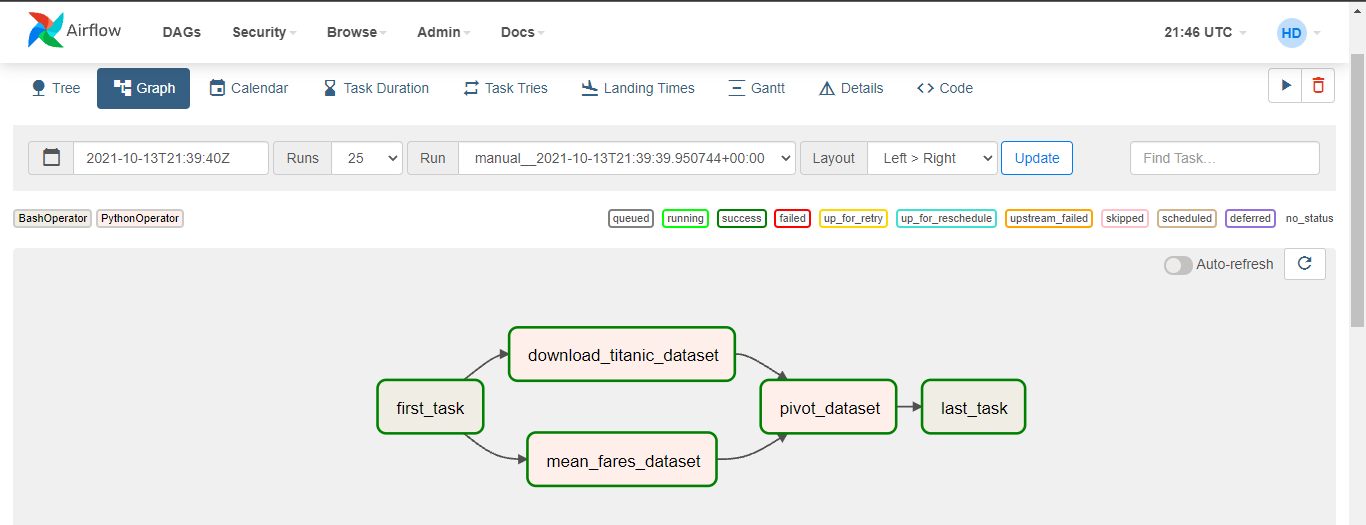
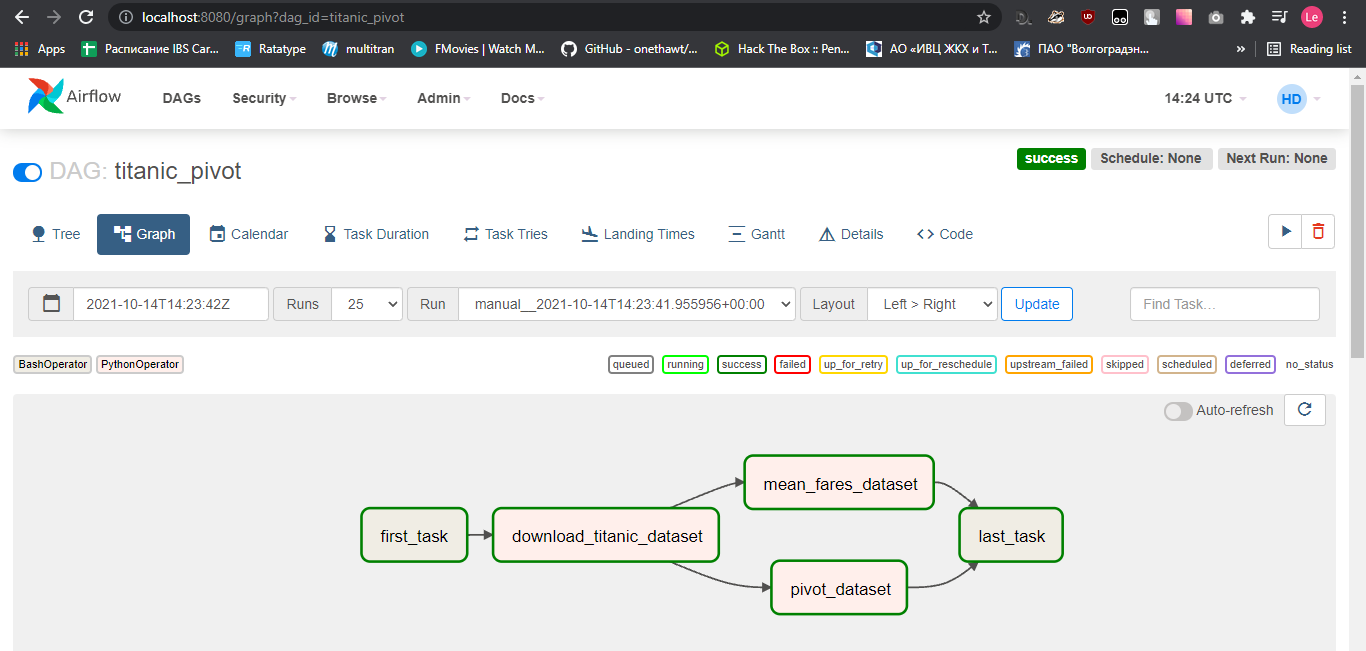
fix: change pipeline

diff --git a/airflow/dags/dag_1.py b/airflow/dags/dag_1.py
@@ -31,7 +31,8 @@ def pivot_dataset():
     df = titanic_df.pivot_table(index=['Sex'],
                                 columns=['Pclass'],
                                 values='Name',
-                                aggfunc='count').reset_index()
+                                aggfunc='count') \
+                    .reset_index()
     df.to_csv(get_path('titanic_pivot.csv'))
 
     
@@ -77,8 +78,8 @@ with DAG(
     
     last_task = BashOperator(
         task_id='last_task',
-        bash_command='echo "Pipeline finished! Execution date is {{ execution_date | ds }}"',
+        bash_command='echo "Pipeline finished! Execution date is {{ ds }}"',
         dag=dag,
     )
     
-    first_task >> [create_titanic_dataset, mean_fares_titanic_dataset] >> pivot_titanic_dataset >> last_task
+    first_task >> create_titanic_dataset >>  [pivot_titanic_dataset, mean_fares_titanic_dataset] >> last_task
